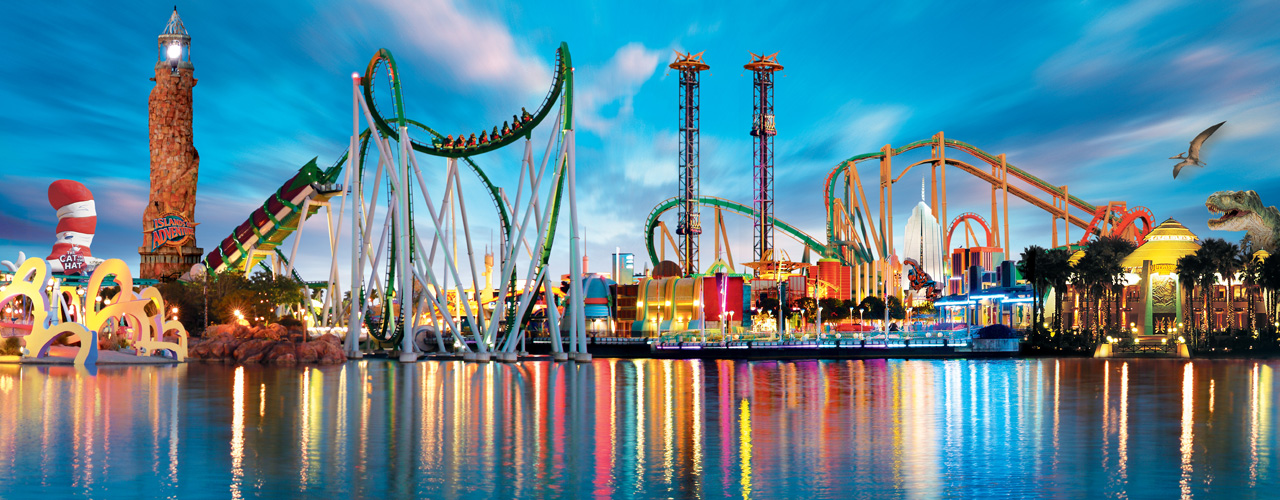
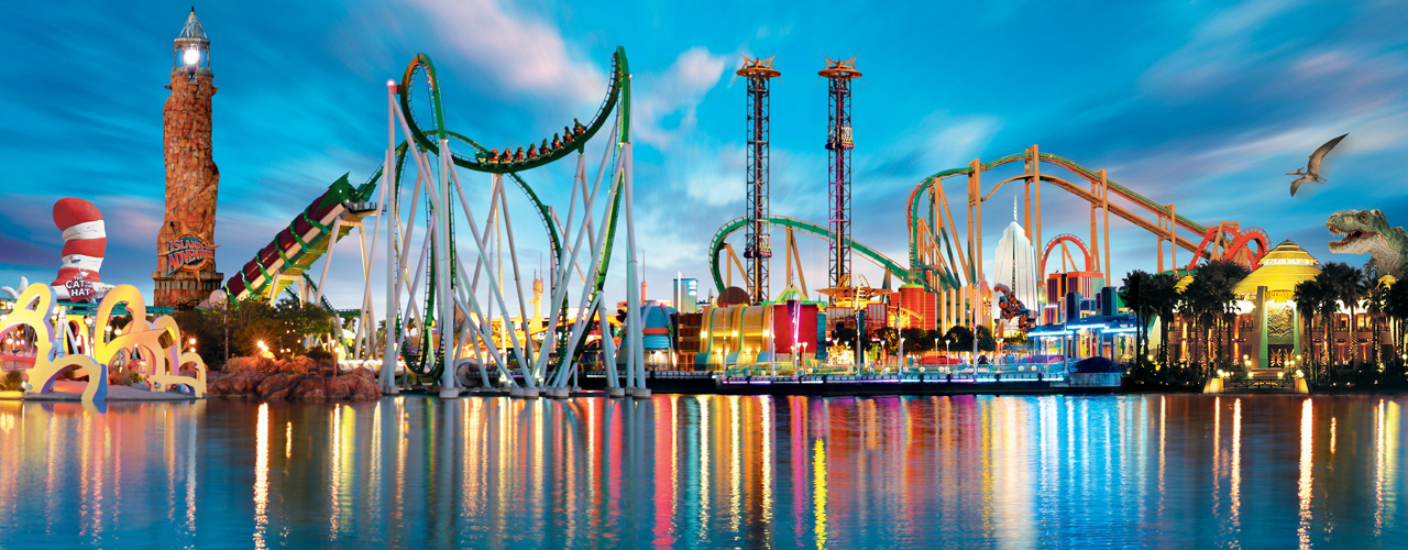
made carousel slider sexier

diff --git a/app/assets/stylesheets/master.scss b/app/assets/stylesheets/master.scss
@@ -27,6 +27,7 @@ body {
 .navbar {
   background: image_url('dark_embroidery.png');
   box-shadow: 0px 1px 3px #2a2a2a;
+  margin-bottom: 0;
 }
 
 .navbar-inverse .navbar-brand {
@@ -66,4 +67,24 @@ blockquote:before {
 }
 blockquote p {
   display: inline;
+}
+
+.carousel-inner > .carousel-item > img, .carousel-inner > .carousel-item > a > img {
+  max-height: 550px;
+  width: 100%;
+}
+
+.carousel-caption {
+  font-family: 'Helvetica Neue', Helvetica, sans-serif;
+  font-size: 60px;
+  font-weight: 100;
+  text-shadow: rgba(0, 0, 0, 0.95) 2px 2px;
+  background-color: rgba(0, 0, 0, 0.5);
+  width: 100%;
+  position: absolute;
+  left: 0;
+}
+
+.carousel {
+  box-shadow: 0px 3px 8px #2a2a2a;
 }
